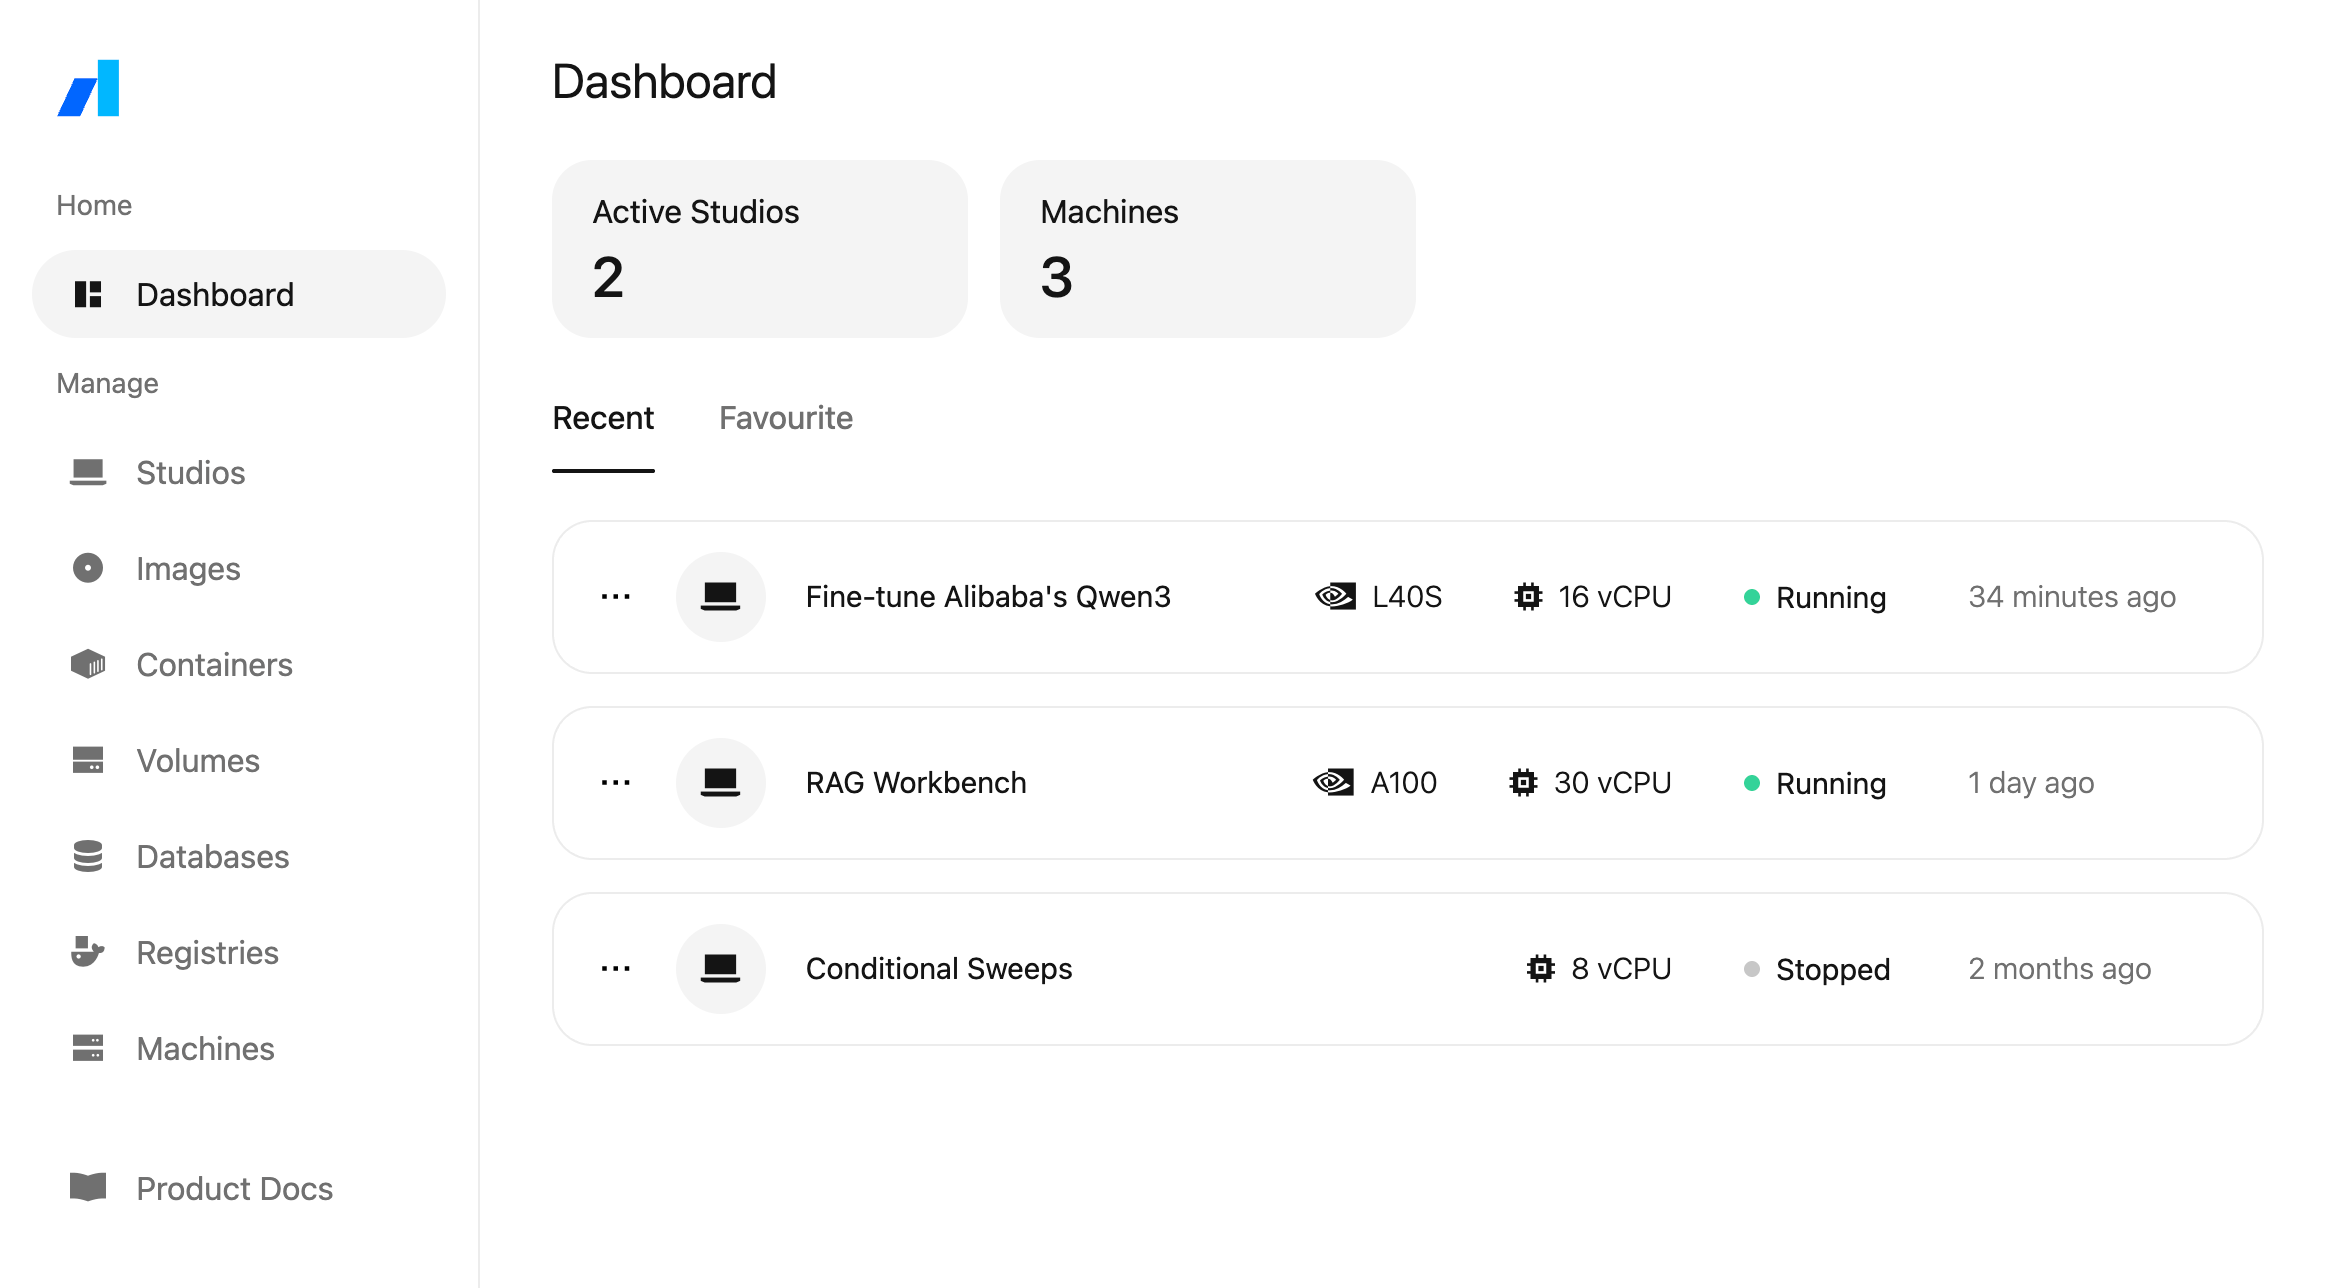
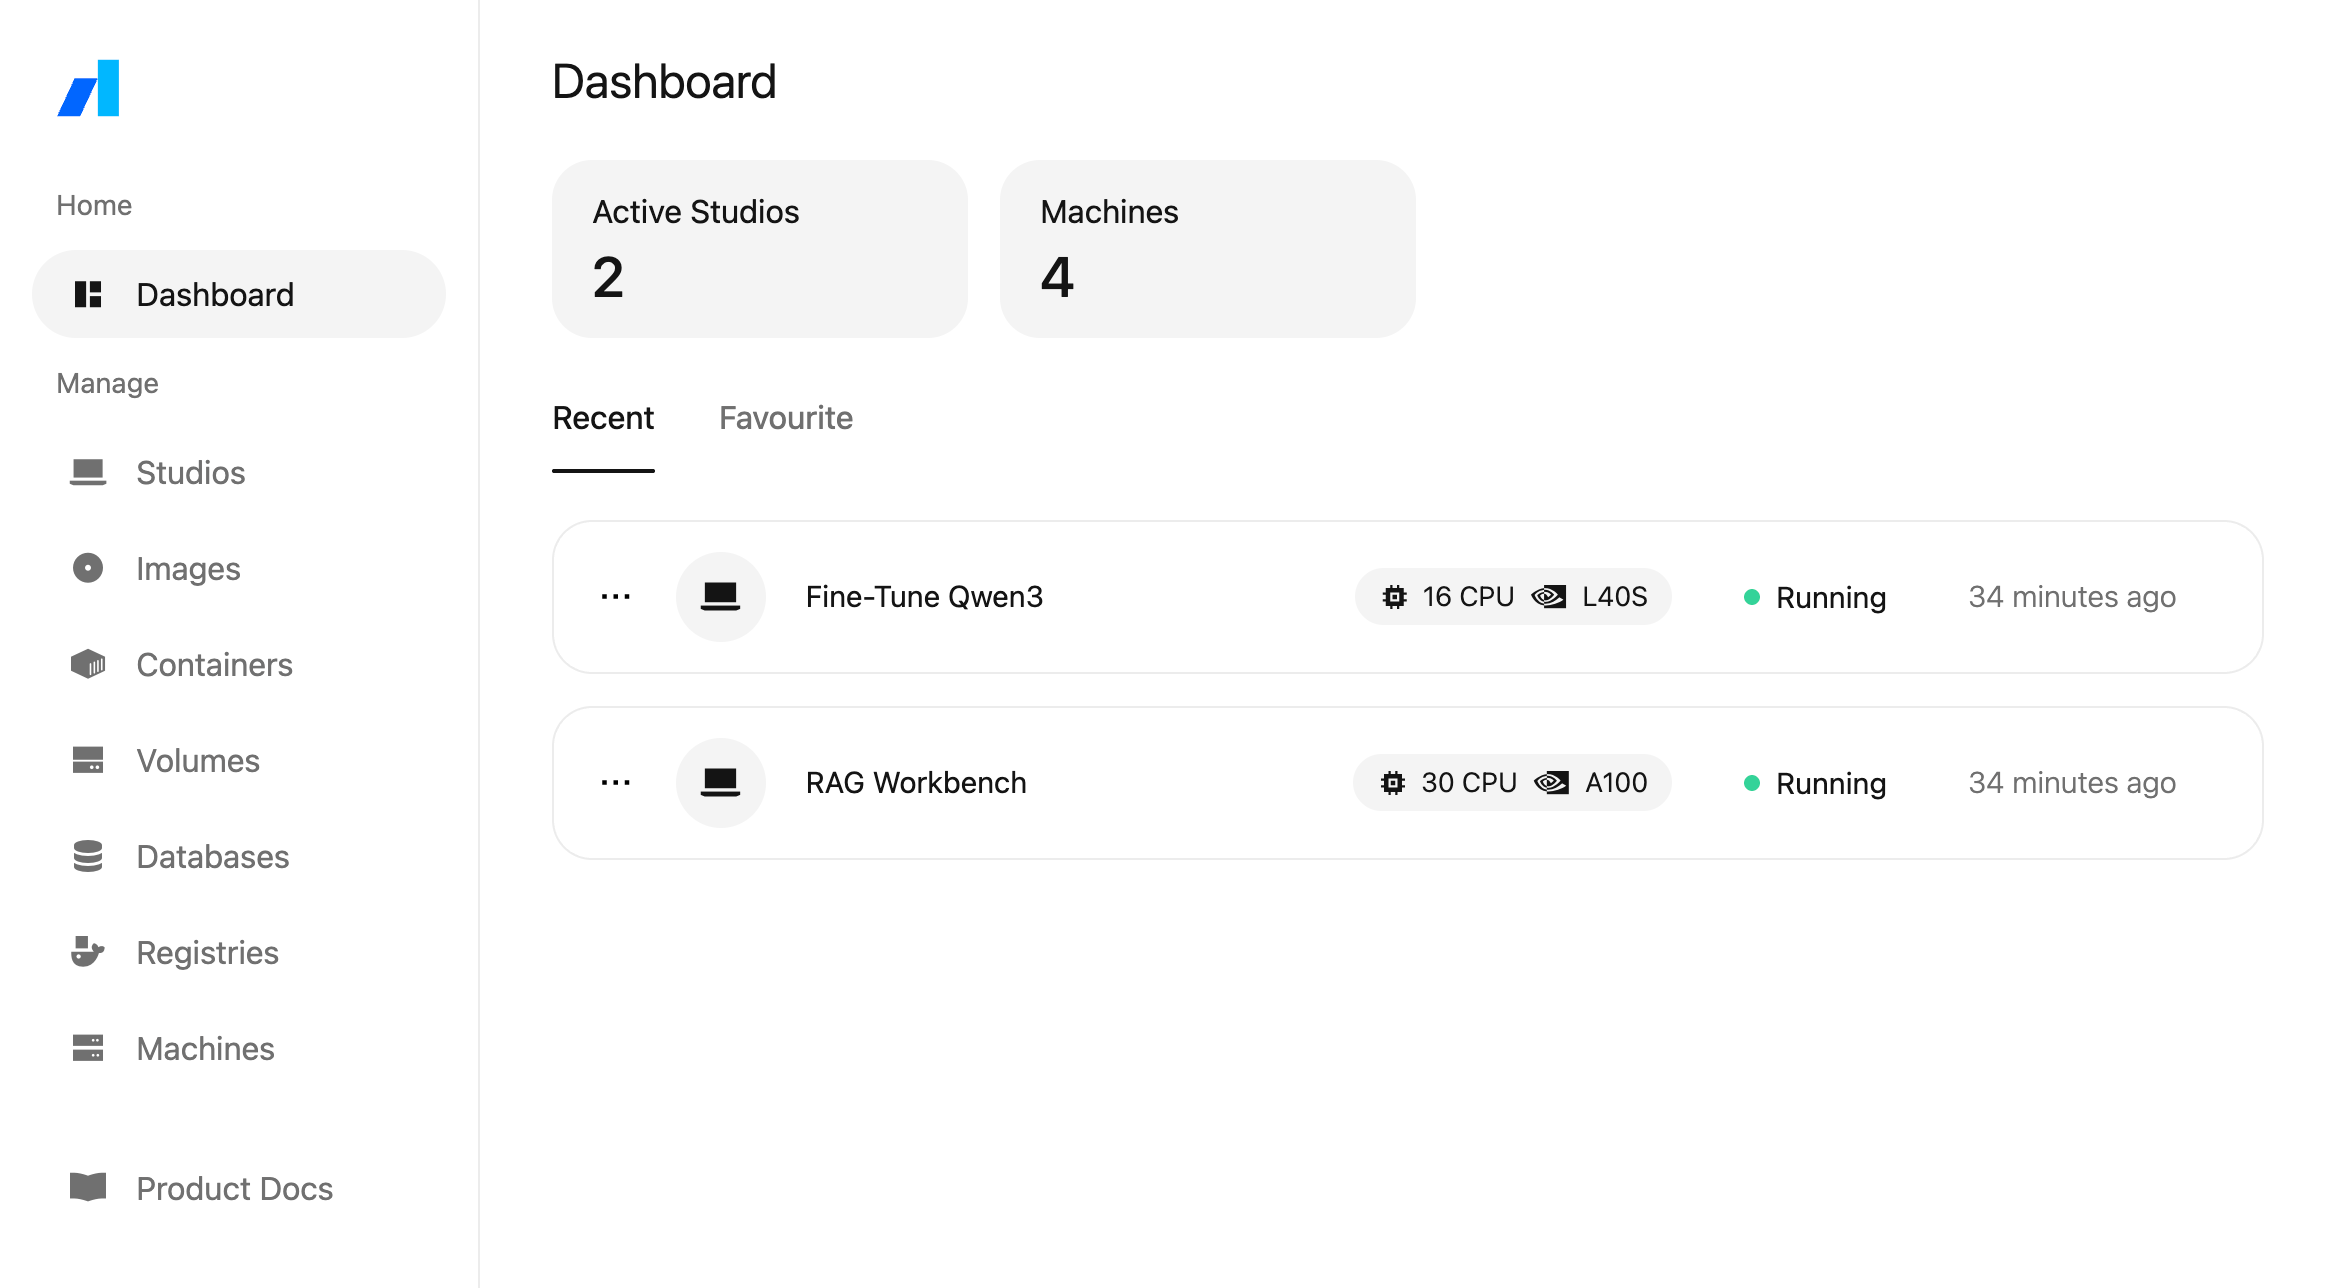
Improve design

diff --git a/static/styles/pages/_index.scss b/static/styles/pages/_index.scss
@@ -158,17 +158,24 @@
                             width: 11rem;
                         }
                         
-                        .item__gpu,
-                        .item__cpu {
+                        .item__config {
                             display: flex;
-                            font-weight: 300;
+                            font-weight: 350;
                             min-width: fit-content;
                             column-gap: 0.5rem;
                             margin-right: 1rem;
                             align-items: center;
+                            padding: 0.25rem 0.75rem;
+                            font-size: 0.85rem;
+                            background: rgba(64, 64, 64, 0.06);
+                            border-radius: 1rem;
 
                             i {
-                                font-size: 0.875rem;
+                                font-size: 0.75rem;
+
+                                &:not(:last-child) {
+                                    margin-left: 0.125rem;
+                                }
                             }
                         }
 

diff --git a/static/templates/pages/index.html b/static/templates/pages/index.html
@@ -100,11 +100,9 @@ Clearly
                     <i class="fa-kit fa-studio"></i>
                 </div>
                 <div class="item__name">${container.id}</div>
-                <div class="item__gpu">
+                <div class="item__config">
+                    <i class="fa-kit fa-cpu"></i>16 CPU
                     <i class="fa-kit fa-nvidia"></i>RTX 3090
-                </div>
-                <div class="item__cpu">
-                    <i class="fa-kit fa-cpu"></i>16 vCPU
                 </div>
                 <div class="item__status item__status--${container.status.toLowerCase()}">
                     ${container.status}
